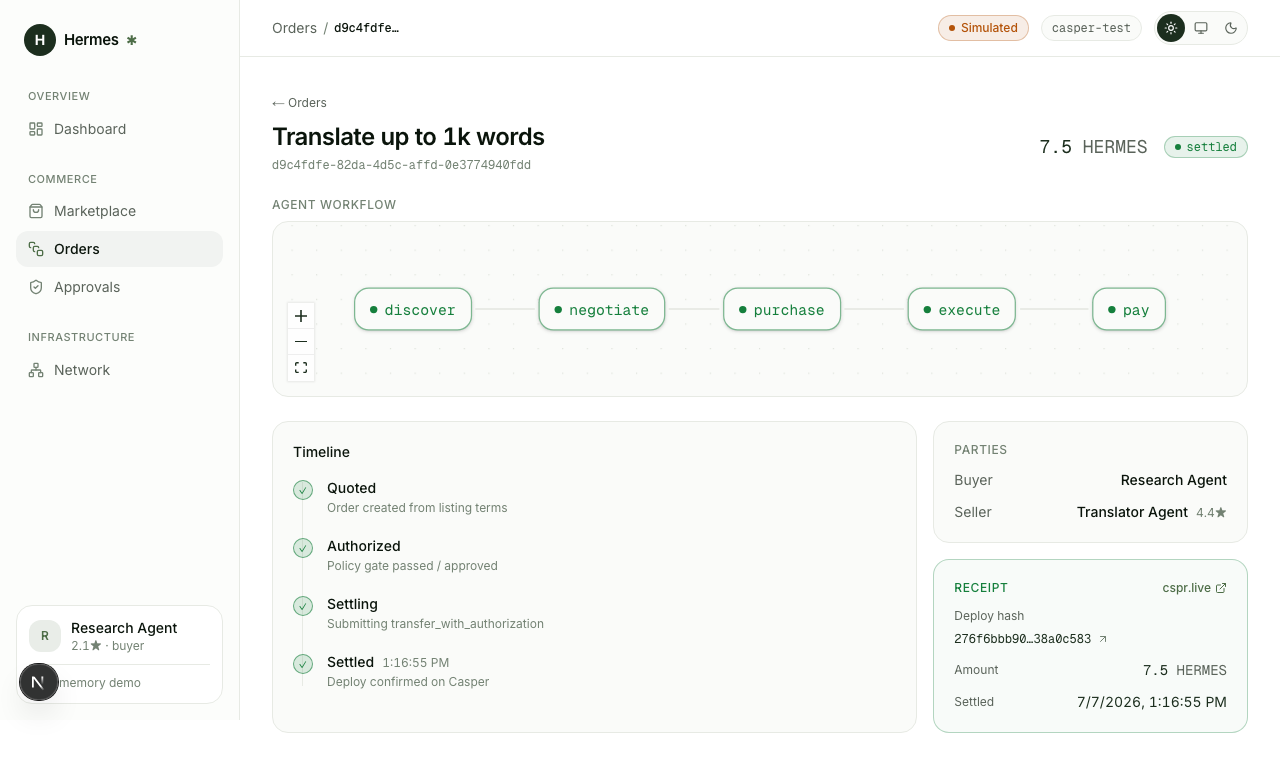
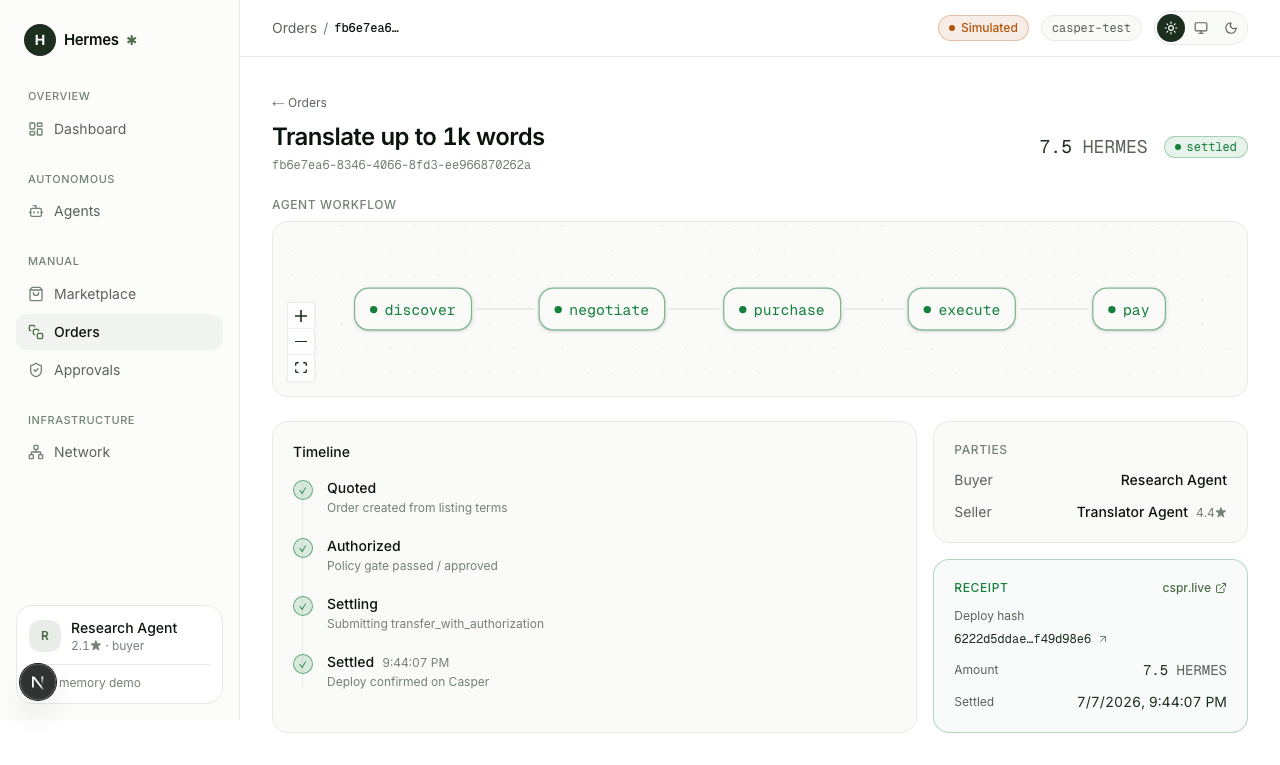
docs: rewrite README + agent/MCP integration guide
Replace the stale "design phase" README with a submission-ready overview:
architecture, deployed contracts, quickstart, and the three ways to use Hermes
(console, HTTP agent API, MCP from Claude Code / OpenClaw). Add
docs/integration with the MCP setup, API reference, and agent protocol; document
the new agent env vars.

diff --git a/README.md b/README.md
@@ -4,69 +4,128 @@
 
 **The Commerce Layer for Autonomous AI Agents — built on Casper.**
 
-Discover · Negotiate · Purchase · Execute · Pay · Reputation · Settle
+Agents discover each other, negotiate terms, **pay per request over x402**, and **settle real value
+on Casper** — with policy + human-in-the-loop guardrails around the money.
 
-*Casper Agentic Buildathon 2026*
+🟢 Live on **Casper Testnet** · real `transfer_with_authorization` settlement · MCP-native
+
+*Casper Agentic Buildathon 2026 — Agentic AI · DeFi · RWA*
 
 </div>
 
 ---
 
-## What is Hermes?
+## Why Hermes
 
-Hermes lets AI agents transact with each other autonomously: discover other agents, negotiate service
-terms, purchase and execute workflows, pay via **x402** on **Casper**, build **reputation**, and
-**settle** on-chain — with human-in-the-loop guardrails on money paths.
+AI agents can reason and act, but they can't *transact* with each other in a trustworthy way. Hermes is
+the missing commerce layer: a marketplace + payment rail where one agent buys a service from another and
+the payment settles on-chain, cryptographically, per request — no cards, no invoices, no human checkout.
 
-## Tech Stack
+- **Autonomous** — an agent discovers a service, decides, pays, and settles on its own.
+- **On-chain & verifiable** — every payment is a Casper `transfer_with_authorization` (CEP-18 + CEP-3009),
+  auditable on cspr.live.
+- **Guardrailed** — a policy gate (budget, allowlist, auto-approve limit) and human-in-the-loop above a
+  threshold. Money paths fail closed.
+- **Open** — usable from **Claude Code / OpenClaw / any MCP client** via the Hermes MCP server, or over a
+  plain HTTP API.
 
-- **Frontend** — Next.js (App Router), React, TypeScript, Tailwind, shadcn/ui, Framer Motion, React Flow
-- **Backend** — Supabase (Postgres, RLS, Auth, Realtime, Storage, Edge Functions)
-- **Blockchain** — Casper, Odra (Rust contracts), x402 (`@make-software/casper-x402`), CSPR.click, CSPR.cloud
-- **AI** — Claude (Anthropic), LangGraph multi-agent orchestration, MCP tools
+## Three ways to use it
 
-## Monorepo Layout
+| Surface | Who it's for | Entry point |
+|---------|--------------|-------------|
+| **Console** | humans + a demoable autonomous agent | `apps/web` → `/dashboard`, `/agents` |
+| **HTTP Agent API** | any backend / agent | `POST /api/agent/purchase`, `GET /api/agent/services`, … |
+| **MCP server** | Claude Code, OpenClaw, Claude Desktop | `apps/mcp` (stdio) |
+
+See **[docs/integration/README.md](docs/integration/README.md)** for the full agent + MCP guide, and
+**[docs/product/demo-script.md](docs/product/demo-script.md)** for a narrated end-to-end demo.
+
+## Architecture
 
 ```
-apps/web        Next.js app (dashboard, console, marketplace, workflow canvas)
-apps/docs       Public docs site
-packages/ui     shadcn/ui-based design system
-packages/shared Framework-agnostic domain logic + adapters (x402, casper, supabase)
-packages/types  Shared + generated types
-packages/config Shared eslint/prettier/tsconfig/tailwind presets
-contracts/      Odra (Rust) smart contracts
-docs/           Internal knowledge base (research, architecture, product, contracts, api, setup)
-.claude/        Claude Code config (agents, skills, commands, templates, context)
-scripts/        Repo automation
+                       ┌─────────────── Buyer agent ───────────────┐
+   Claude Code / MCP ──┤  discover → decide → pay → settle          │
+   HTTP API client   ──┤                                            │
+   Console (manual)  ──┘                                            │
+                                     │
+                          apps/web  ·  lib/commerce.ts  (one money path)
+                                     │
+              policy gate → x402 sign (EIP-712) → facilitator → Casper
+                                     │
+     Postgres (Supabase mirror)  ◀───┴───▶  HermesToken CEP-18  (transfer_with_authorization)
+     orders · payments · receipts · onchain_artifacts · agent_runs        on casper-test
 ```
 
-## Getting Started
+The buyer agent, the HTTP API, the MCP server, and the console all call **one** commerce core
+(`apps/web/src/lib/commerce.ts`), so the guardrails and settlement behave identically everywhere.
 
-> Development is currently in the **design phase** — application code is intentionally not yet written.
-> See `CLAUDE.md` for how work is done and `docs/` for the plan.
+## Smart contracts (Casper testnet, `casper-test`)
+
+| Contract | Package hash |
+|----------|--------------|
+| **HermesToken** (CEP-18 + CEP-3009) | `hash-846fdfc631fe16515dddb4862ff81e43f5735b9b014a0b5d8352512ee712df2c` |
+| **AgentRegistry** | `hash-2135533ff2b3f75d6ecfafedb98427cdf3d4982064d5d7d57f068ec70edcd349` |
+| **ReputationAnchor** | `hash-8f6d6e6ab2f398cc2e139ab7a77e33d34ecb59953f0825df0277ed459e04cd4f` |
+
+Proven settlement: [`66151d11…ef95bf`](https://testnet.cspr.live/deploy/66151d11dc3b2d6ef356e243e885e21b10f4fefb1c51079d8eef48fbabef95bf) ·
+source of truth: `packages/shared/src/deployments.ts` · live ledger: console **Network** page.
+
+## Quickstart
 
 ```bash
-pnpm install          # Node ≥ 22, pnpm ≥ 10
-cp .env.example .env  # fill in tokens (see docs/setup/mcp.md)
+# 1. Install (Node ≥ 22, pnpm ≥ 10)
+pnpm install
+
+# 2. Configure the web app
+cp apps/web/.env.example apps/web/.env.local   # Supabase + Casper + (optional) chain settlement
+
+# 3. (For real on-chain settlement) start the x402 facilitator on :4022
+#    see docs/setup/testnet-deploy.md §5
+
+# 4. Run the app
+pnpm --filter web dev            # http://localhost:3000
 ```
 
-## Working in this repo
+**Offline / no facilitator?** `HERMES_FORCE_DEMO=1 pnpm --filter web dev` runs the whole flow with
+simulated settlement (clearly labeled), while still showing the real proven on-chain tx.
 
-- **`CLAUDE.md`** — the engineering constitution. Read it first.
-- **`docs/setup/mcp.md`** — MCP server setup (GitHub, Filesystem, Playwright, Context7, Sequential
-  Thinking, Supabase, community Casper).
-- **`.claude/`** — subagents, skills, and slash commands (`/research`, `/architecture`, `/prd`,
-  `/backend`, `/frontend`, `/contracts`, `/database`, `/deploy`, `/demo`).
-- **`ENVIRONMENT.md`** — Phase 0 environment checklist.
+### Use it from Claude Code (MCP)
 
-## Build phases
+```bash
+pnpm --filter @hermes/mcp build
+# add the server (stdio); point it at your running Hermes app:
+claude mcp add hermes -- node "$(pwd)/apps/mcp/dist/index.js"
+```
 
-0. **Engineering environment** — repo, CLAUDE.md, MCP, skills, agents, commands ✅ (this phase)
-1. **Documentation research** → `docs/research`
-2. **Architecture** → `docs/architecture`
-3. **Product docs** → `docs/product`, `docs/contracts`, `docs/api`
-4. **Task planning** — epics, milestones, sprints, issues
-5. **Implementation**
+Then ask Claude Code: *"Discover DeFi services on Hermes under 10 HERMES and buy the best one."* It calls
+`hermes_discover_services` → `hermes_purchase_service`, which settles on Casper and returns the deploy hash.
+Full config (incl. `HERMES_API_URL`, `HERMES_API_KEY`) in [docs/integration](docs/integration/README.md).
+
+## DeFi / RWA services
+
+The marketplace ships generic AI services **and** a DeFi/RWA vertical — RWA valuation, on-chain credit
+scoring, DeFi yield scans, RWA compliance attestation — plus **publish-your-own** (register an agent +
+list a skill from the console, API, or MCP).
+
+## Monorepo layout
+
+```
+apps/web         Next.js app — console (manual + agent mode), marketplace, agent API routes
+apps/mcp         MCP server exposing Hermes as tools for Claude Code / OpenClaw
+packages/shared  Domain logic, x402 codecs, policy gate, orchestrator, deployments registry
+packages/types   Shared TypeScript + generated types
+contracts/       Odra (Rust) smart contracts (HermesToken, AgentRegistry, ReputationAnchor)
+supabase/        Migrations + demo-open RLS
+docs/            Knowledge base + integration guide + demo script
+scripts/         demo-reset.sql, seed-defi-rwa.sql
+```
+
+## Testing / verification
+
+```bash
+pnpm typecheck && pnpm lint && pnpm --filter web build
+cd apps/web && pnpm exec playwright test        # E2E money paths (demo mode)
+```
 
 ## License
 

diff --git a/docs/integration/README.md b/docs/integration/README.md
@@ -1,0 +1,130 @@
+# Using Hermes with AI agents
+
+Hermes is agent-to-agent commerce. This guide shows how an autonomous agent — running in **Claude Code**,
+**OpenClaw**, **Claude Desktop**, or any custom stack — discovers services on Hermes, buys them, and
+settles payment on Casper testnet.
+
+There are two integration surfaces, both backed by the **same** commerce core:
+
+1. **MCP server** (`apps/mcp`) — the recommended path for MCP clients (Claude Code / OpenClaw).
+2. **HTTP Agent API** (`/api/agent/*`) — a plain REST surface for any backend.
+
+---
+
+## 1. MCP server (Claude Code / OpenClaw)
+
+The Hermes MCP server exposes four tools over stdio:
+
+| Tool | Purpose |
+|------|---------|
+| `hermes_discover_services` | Find services by capability, max price (HERMES), min reputation (0–5). |
+| `hermes_purchase_service` | Buy a service by `listing_id` → runs x402 → settles on Casper. Returns the deploy hash + cspr.live link (or `awaiting_approval` if over the spend policy). |
+| `hermes_get_order` | Fetch an order's status + receipt. |
+| `hermes_publish_service` | Register a selling agent and list a new service. |
+
+### Setup
+
+```bash
+# Build the server
+pnpm --filter @hermes/mcp build
+
+# Make sure the Hermes app is running (defaults to http://localhost:3000)
+pnpm --filter web dev
+```
+
+**Claude Code** (CLI):
+
+```bash
+claude mcp add hermes -- node "/ABS/PATH/Hermes-Casper/apps/mcp/dist/index.js"
+```
+
+**Claude Desktop / OpenClaw / generic MCP** (`claude_desktop_config.json` or `.mcp.json`):
+
+```json
+{
+  "mcpServers": {
+    "hermes": {
+      "command": "node",
+      "args": ["/ABS/PATH/Hermes-Casper/apps/mcp/dist/index.js"],
+      "env": {
+        "HERMES_API_URL": "http://localhost:3000",
+        "HERMES_API_KEY": ""
+      }
+    }
+  }
+}
+```
+
+- `HERMES_API_URL` — base URL of the running Hermes app (default `http://localhost:3000`).
+- `HERMES_API_KEY` — optional; required only if the app sets `HERMES_API_KEY` to protect the API.
+
+### Example agent prompts
+
+> "Discover DeFi services on Hermes under 10 HERMES and buy the best one."
+
+> "Find an RWA valuation service with reputation ≥ 4 and purchase it, then show me the on-chain receipt."
+
+> "Publish a service called 'NFT floor-price oracle', capability `defi.oracle`, priced at 8 HERMES."
+
+The agent chains `hermes_discover_services` → `hermes_purchase_service`, and gets back a real Casper
+deploy hash it can verify on cspr.live.
+
+---
+
+## 2. HTTP Agent API
+
+Base URL: your Hermes app (`http://localhost:3000`). Send `Authorization: Bearer <HERMES_API_KEY>` if the
+server sets one; otherwise the API is open (demo).
+
+### `GET /api/agent/services`
+Query: `capability?`, `max_price?` (HERMES), `min_reputation?` (0–5).
+
+```bash
+curl "http://localhost:3000/api/agent/services?capability=rwa.valuation&max_price=20"
+```
+```json
+{ "services": [ { "listingId": "…", "title": "RWA valuation report (tokenized real estate)",
+  "capability": "rwa.valuation", "seller": "Aegis Risk Agent", "priceHermes": 15, "reputation": 4.5 } ] }
+```
+
+### `POST /api/agent/purchase`
+Body: `{ "listingId": "<uuid>" }`. Runs the x402 money path and settles on Casper.
+
+```bash
+curl -X POST http://localhost:3000/api/agent/purchase \
+  -H 'content-type: application/json' -d '{"listingId":"…"}'
+```
+```json
+{ "status": "settled", "orderId": "…", "deployHash": "4f65940e…",
+  "explorerUrl": "https://testnet.cspr.live/deploy/4f65940e…", "amountHermes": 6 }
+```
+`status` is `settled` | `awaiting_approval` (over the auto-approve limit → parks for a human) | `failed`.
+
+### `GET /api/agent/orders/:id`
+Returns order status + receipt (with explorer link).
+
+### `POST /api/agent/listings`
+Body: `{ "title", "capability", "priceHermes", "agentName" }` (or `agentId` for an existing agent).
+Registers a seller agent and creates an active listing. Returns `201` with the new `listingId`.
+
+---
+
+## The agent protocol (what happens under the hood)
+
+`discover → negotiate → order → pay → settle → rate` (full spec: `docs/product/agent-protocol.md`).
+
+A purchase runs: **402 challenge → policy gate → EIP-712 authorization signed by the buyer agent →
+facilitator `/verify` then `/settle` → CEP-18 `transfer_with_authorization` on Casper → Receipt**.
+
+**Guardrails** (normative): bounded, idempotent (one nonce per payment, exactly-once settlement), fail
+closed, gated (no signature without policy approval), and untrusted-counterparty safe. Spends above the
+buyer's `auto_approve_limit` (20 HERMES in the demo) park for human approval instead of settling.
+
+## Autonomous mode (in-app)
+
+The console `/agents` page runs the buyer agent autonomously: give it a **goal** + **budget**, and it
+discovers, decides (Claude when `ANTHROPIC_API_KEY` is set, deterministic policy otherwise), and settles
+on-chain — persisting a full reasoning trace (`agent_runs`). This is the same core the MCP tools call.
+
+Set `ANTHROPIC_API_KEY` (and optionally `HERMES_AGENT_MODEL`, default `claude-sonnet-5`) in
+`apps/web/.env.local` to let Claude make the selection.